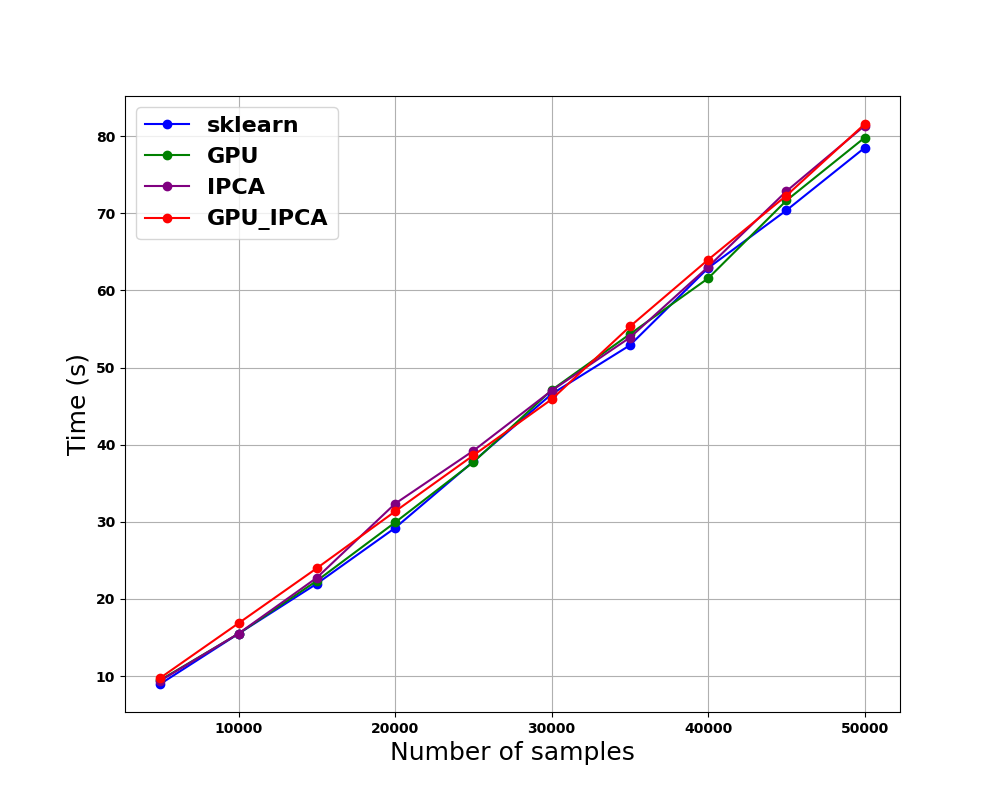
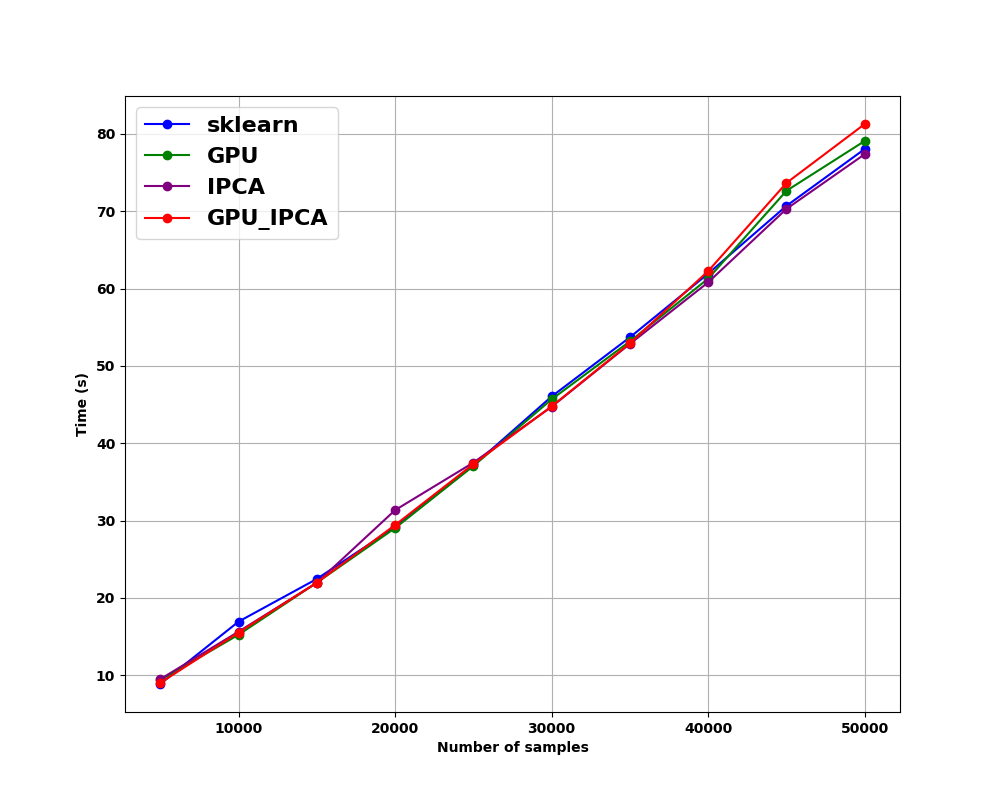
Change the KMeans random state to a fixed random seed.

diff --git a/MNIST/Comparison.py b/MNIST/Comparison.py
@@ -59,7 +59,7 @@ def main():
 
     # Get num_class_per_batch classes for each class for each batch
     train_images_batch, train_labels_batch = dataset_batch(train_images, train_labels, total_stage, num_samples_per_batch, random_seed)
-
+    a = train_images_batch[0]
 
     print("Dataset Generation Done!")
 
@@ -70,7 +70,7 @@ def main():
     energy_percent = opt.energy_percent
 
     PCA_method = ["sklearn", "GPU", "IPCA", "GPU_IPCA"]
-    # PCA_method = ["GPU_IPCA"]
+    # PCA_method = ["GPU","GPU_IPCA"]
 
     stage_time = np.zeros([len(PCA_method), total_stage])
     get_kernel_time = np.zeros([len(PCA_method), total_stage])
@@ -141,12 +141,29 @@ def main():
 
             else:
                 print("Number of trained images: ", len(trained_images))
+                if(stage == 0):
+                    print("Is the first batch image correct: ", np.equal(trained_images, a).all())
                 pca_params = get_kernel(dataset, trained_images, trained_labels, kernel_sizes, num_kernels,
                                         opt.energy_percent,
                                         pca_method_1st=method, pca_method_2nd=method,
                                         gpu_partition=gpu_partition,
                                         use_ipca=use_ipca,
                                         print_detail=opt.print_detail)
+                if(method == "sklearn"):
+                    pca_params_cpu_store = pca_params
+                elif(method == "GPU"):
+                    pca_params_gpu_store = pca_params
+
+                else:
+                    check_store = pca_params_cpu_store if (method == "ipca") else pca_params_gpu_store
+                    print("(Layer 0) Is the kernel equal: ",
+                          np.equal(pca_params['PCA Kernels/Layer%d' % 0]['Layer_%d/kernel' % 0],
+                                   check_store['PCA Kernels/Layer%d' % 0]['Layer_%d/kernel' % 0]).all())
+
+                    print("(Layer 1) Is the kernel equal: ",
+                          np.equal(pca_params['PCA Kernels/Layer%d' % 1],
+                                   check_store['PCA Kernels/Layer%d' % 1]).all())
+
 
             end_getKernel_time = time()
             get_kernel_time[method_no, stage] = (end_getKernel_time - start_getKernel_time)
@@ -160,6 +177,7 @@ def main():
             start_getFeature_time = time()
             _, train_feature = get_feature(trained_images, pca_params_list, trainset=True, print_detail=print_detail)
             end_getFeature_time = time()
+
             get_feature_time[method_no, stage] = (end_getFeature_time - start_getFeature_time)
 
             _, test_feature = get_feature(test_images, pca_params_list, trainset=False, print_detail=print_detail)
@@ -169,7 +187,8 @@ def main():
             print('--------Start training the classifier--------')
             print("Type of train_feature: ", train_feature.dtype)
             weights, biases, train_acc, training_time = clf(dataset, train_feature, trained_labels,
-                                                            use_classes, print_detail=print_detail)
+                                                            use_classes, random_seed, print_detail=print_detail)
+
             classifier_training_time[method_no, stage] = training_time
             print('--------Finish training the classifier--------')
 

diff --git a/MNIST/classifier.py b/MNIST/classifier.py
@@ -11,20 +11,18 @@ import time
 import datetime
 
 
-def MNIST_Regressor(feature, train_labels, num_clusters, class_list, weights, bias, print_detail=False):
+def MNIST_Regressor(feature, train_labels, num_clusters, class_list, weights, bias, random_seed=1, print_detail=False):
     use_classes = len(class_list)
 
     for k in range(len(num_clusters)):
         if k != len(num_clusters) - 1:
             # Kmeans_Mixed_Class (too slow for CIFAR, changed into Fixed Class)
-            start_clf_time = time.time()
-            kmeans = KMeans(n_clusters=num_clusters[k]).fit(feature)
+            kmeans = KMeans(n_clusters=num_clusters[k], random_state=random_seed).fit(feature)
 
             # labels_, _ = kmeans_pytorch.kmeans(
             #     X=torch.from_numpy(feature).to("cuda"),
             #     num_clusters=num_clusters[k], distance='euclidean', device=torch.device('cuda')
             # )
-            end_clf_time = time.time()
             # print("Kmeans time (cluster {}): {}".format(k, datetime.timedelta(seconds=end_clf_time - start_clf_time)))
             pred_labels = kmeans.labels_
             # pred_labels = labels_.cpu().numpy()
@@ -59,8 +57,6 @@ def MNIST_Regressor(feature, train_labels, num_clusters, class_list, weights, bi
                 if clus_labels[pred_labels[i]] == train_labels[i]:
                     labels[i, pred_labels[i]] = 1
                 else:
-                    distance_assigned = euclidean_distances(feature[i].reshape(1, -1),
-                                                            centroid[pred_labels[i]].reshape(1, -1))
                     cluster_special = [j for j in range(num_clusters[k]) if clus_labels[j] == train_labels[i]]
                     distance = np.zeros(len(cluster_special))
                     for j in range(len(cluster_special)):
@@ -122,7 +118,7 @@ def MNIST_Regressor(feature, train_labels, num_clusters, class_list, weights, bi
     return weights, bias, acc_train
 
 
-def clf(dataset, feature, train_labels, class_list, print_detail):
+def clf(dataset, feature, train_labels, class_list, random_seed, print_detail):
     starting_training_time = time.time()
     # feature normalization
     std_var = (np.std(feature, axis=0)).reshape(1, -1)
@@ -142,7 +138,8 @@ def clf(dataset, feature, train_labels, class_list, print_detail):
 
     weights = {}
     bias = {}
-    weight, bias, acc_train = MNIST_Regressor(feature, train_labels, num_clusters, class_list, weights, bias, print_detail)
+    
+    weight, bias, acc_train = MNIST_Regressor(feature, train_labels, num_clusters, class_list, weights, bias, random_seed, print_detail)
 
     ending_time_training = time.time()
     return weights, bias, acc_train, ending_time_training-starting_training_time

diff --git a/CIFAR10/classifier.py b/CIFAR10/classifier.py
@@ -9,7 +9,7 @@ from sklearn.metrics import confusion_matrix
 import time
 
 
-def CIFAR10_Regressor(feature, train_labels, num_clusters, class_list, weights, bias, print_detail=False):
+def CIFAR10_Regressor(feature, train_labels, num_clusters, class_list, weights, bias, random_seed=1, print_detail=False):
     use_classes = len(class_list)
     for k in range(len(num_clusters)):
         if k != len(num_clusters) - 1:
@@ -25,7 +25,7 @@ def CIFAR10_Regressor(feature, train_labels, num_clusters, class_list, weights, 
                 #     X=torch.from_numpy(feature_special).to("cuda"),
                 #     num_clusters=num_clus, distance='euclidean', device=torch.device('cuda')
                 # )
-                kmeans = KMeans(n_clusters=num_clus).fit(feature_special)
+                kmeans = KMeans(n_clusters=num_clus, random_state=random_seed).fit(feature_special)
                 pred_labels = kmeans.labels_
                 for i in range(feature_special.shape[0]):
                     labels[index[i], pred_labels[i] + n * num_clus] = 1
@@ -74,7 +74,7 @@ def CIFAR10_Regressor(feature, train_labels, num_clusters, class_list, weights, 
             acc_train = sklearn.metrics.accuracy_score(train_labels, pred_labels)
     return weights, bias, acc_train
 
-def clf(dataset, feature, train_labels, class_list, print_detail):
+def clf(dataset, feature, train_labels, class_list, random_seed, print_detail):
     starting_training_time = time.time()
     # feature normalization
     std_var = (np.std(feature, axis=0)).reshape(1, -1)
@@ -94,7 +94,7 @@ def clf(dataset, feature, train_labels, class_list, print_detail):
 
     weights = {}
     bias = {}
-    weight, bias, acc_train = CIFAR10_Regressor(feature, train_labels, num_clusters, class_list, weights, bias, print_detail)
+    weight, bias, acc_train = CIFAR10_Regressor(feature, train_labels, num_clusters, class_list, weights, bias, random_seed, print_detail)
 
     ending_time_training = time.time()
     return weights, bias, acc_train, ending_time_training-starting_training_time

diff --git a/CIFAR10/main.py b/CIFAR10/main.py
@@ -29,7 +29,7 @@ def parse_arg():
     parser.add_argument('-kernel_sizes', choices=["3,3,3", "5,5"], default="5,5")  # Kernels size for each stage
     parser.add_argument('-num_kernels', choices=["5,15", "31,63,127"], default="31,63")  # num_kernels = "31,63" if dataset != "MNIST" else "5,15"
     parser.add_argument('-energy_percent', type=float, default=None)  # Energy to be preserved in each stage
-    parser.add_argument('-num_samples_per_batch', type=int, default=5000) # Num of new samples per batch
+    parser.add_argument('-num_samples_per_batch', type=int, default=10000) # Num of new samples per batch
     parser.add_argument('-PCA_method_1st', choices=["sklearn", "svd", "GPU", "IPCA", "GPU_IPCA"], default="GPU_IPCA")  # Methods to perform pca at 1st layer
     parser.add_argument('-PCA_method_2nd', choices=["sklearn", "svd", "GPU", "IPCA", "GPU_IPCA"], default="GPU_IPCA")  # Methods to perform pca at 2nd layer
     parser.add_argument('-gpu_partition', type=int, default=5) # Num of partitions for GPU IPCA
@@ -162,7 +162,7 @@ def main():
         print('--------Start training the classifier--------')
         print("Type of train_feature: ", train_feature.dtype)
         weights, biases, train_acc, training_time = clf(dataset, train_feature, trained_labels,
-                                                        use_classes, print_detail=print_detail)
+                                                        use_classes, random_seed, print_detail=print_detail)
         classifier_training_time.append(training_time)
         print('--------Finish training the classifier--------')
 

diff --git a/CIFAR10/Toolbox.py b/CIFAR10/Toolbox.py
@@ -163,8 +163,10 @@ To plot the comparison of different time.
 def comparisonPlot(opt, time, method, timeType, remove_path=False):
     plt.figure(figsize=(10, 8))
     # plt.title('Comparison of {} time'.format(timeType), fontsize=16)
-    plt.ylabel('Time (s)', fontsize=18)
-    plt.xlabel('Number of samples', fontsize=18)
+    plt.ylabel('Time (s)', fontweight='bold')
+    plt.xlabel('Number of samples', fontweight='bold')
+    plt.xticks(fontweight='bold')
+    plt.yticks(fontweight='bold')
     plt.grid(True)
     plt.rcParams['font.weight'] = 'bold'
     color=['blue', 'green', 'purple', 'red']
@@ -176,3 +178,5 @@ def comparisonPlot(opt, time, method, timeType, remove_path=False):
     save_path = './Comparison/BatchSize_{}/'.format(opt.num_samples_per_batch)
     path_check(save_path, remove_path=remove_path)
     plt.savefig(save_path + '/{}.png'.format(timeType))
+
+

diff --git a/CIFAR10/Comparison.py b/CIFAR10/Comparison.py
@@ -169,7 +169,7 @@ def main():
             print('--------Start training the classifier--------')
             print("Type of train_feature: ", train_feature.dtype)
             weights, biases, train_acc, training_time = clf(dataset, train_feature, trained_labels,
-                                                            use_classes, print_detail=print_detail)
+                                                            use_classes, random_seed, print_detail=print_detail)
             classifier_training_time[method_no, stage] = training_time
             print('--------Finish training the classifier--------')
 

diff --git a/MNIST/Toolbox.py b/MNIST/Toolbox.py
@@ -162,8 +162,10 @@ To plot the comparison of different time.
 def comparisonPlot(opt, time, method, timeType, remove_path=False):
     plt.figure(figsize=(10, 8))
     # plt.title('Comparison of {} time'.format(timeType), fontsize=16)
-    plt.ylabel('Time (s)', fontsize=18)
-    plt.xlabel('Number of samples', fontsize=18)
+    plt.ylabel('Time (s)', fontweight='bold')
+    plt.xlabel('Number of samples', fontweight='bold')
+    plt.xticks(fontweight='bold')
+    plt.yticks(fontweight='bold')
     plt.grid(True)
     plt.rcParams['font.weight'] = 'bold'
     color=['blue', 'green', 'purple', 'red']

diff --git a/MNIST/main.py b/MNIST/main.py
@@ -164,7 +164,7 @@ def main():
         print('--------Start training the classifier--------')
         print("Type of train_feature: ", train_feature.dtype)
         weights, biases, train_acc, training_time = clf(dataset, train_feature, trained_labels,
-                                                        use_classes, print_detail=print_detail)
+                                                        use_classes, random_seed, print_detail=print_detail)
         classifier_training_time.append(training_time)
         print('--------Finish training the classifier--------')
 

diff --git a/MNIST/saab.py b/MNIST/saab.py
@@ -322,6 +322,7 @@ def multi_Saab_transform(dataset, images, labels, kernel_sizes, num_kernels, ene
                                batch_size=batch_size,
                                gpu_partition=gpu_partition
                                )
+
     pc = kernels
     kernels = np.concatenate((dc_kernel, kernels), axis=0)
     num_channels = sample_patches.shape[-1]
